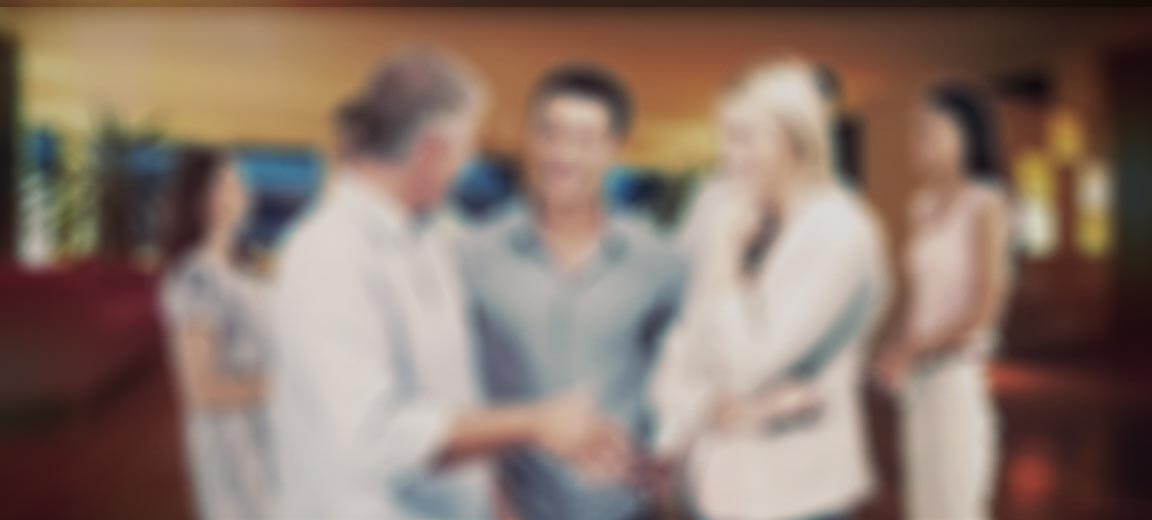
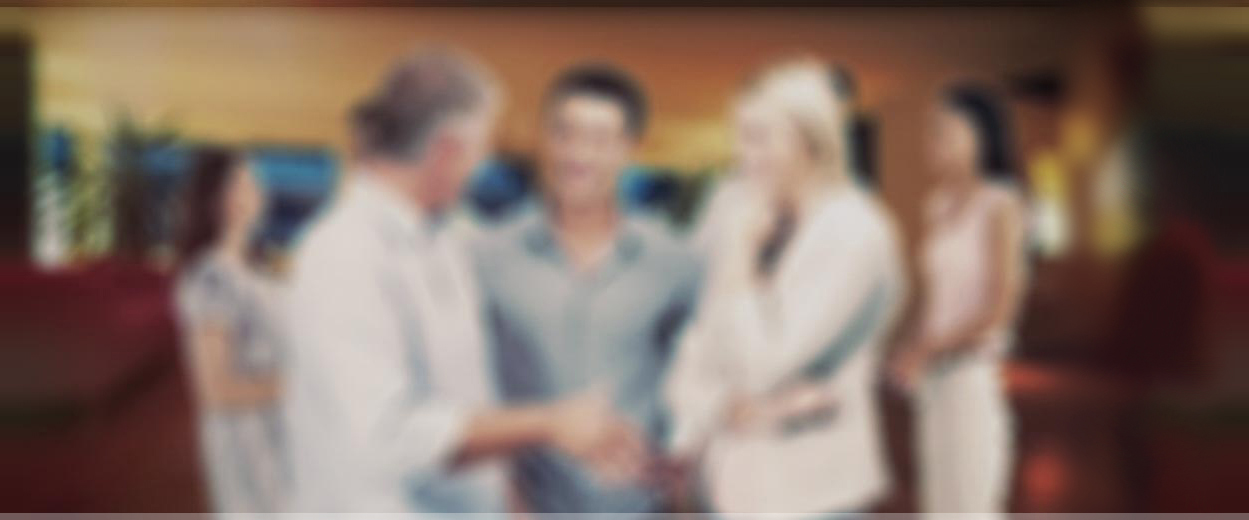
add qrcode, new css, and cleanup images

diff --git a/theme/static/css/screen.css b/theme/static/css/screen.css
@@ -2,27 +2,29 @@ body,html {
     margin: 0;
     padding: 0;
     font-family: "pf_dindisplay_proregular";
-	height: 100%;
-	color: #535353;
-	background: #f7f7f7;
+    height: 100%;
+    color: #535353;
+    background: #f7f7f7;
 }
 
 body * {
-	font-style: normal !important;
+    font-style: normal !important;
 }
 
 header {
     width: 100%;
     height: 81px;
-    background: url(../img/header-bg.png) repeat-x;
+    background: url(img/header-bg.png) repeat-x;
     font-family: "pf_dindisplay_probold";
     padding: 10px 0;
     margin: 0 0 -20px 0;
+	position: relative;
+    z-index: 2;
 }
 
 #logo {
     display: block;
-    background: url(../img/logo.png) no-repeat;
+    background: url(img/logo.png) no-repeat;
     height: 68px;
     padding: 7px 0 0 80px;
     margin: 0 0 0 25px;
@@ -47,9 +49,9 @@ header ul li {
 }
 
 header ul li a {
-	font-size: 20px;
+    font-size: 20px;
     color: rgba(255,255,255,0.15);
-	text-decoration: none;
+    text-decoration: none;
 }
 
 header ul li a:hover {
@@ -57,57 +59,76 @@ header ul li a:hover {
 }
 
 #teaser {
-    background-image: url(../img/teaser2.jpg), url(../img/teaserbg.png);
-	background-repeat: no-repeat, repeat-x;
-	background-position: top center;
+    background-image: url(img/teaser.jpg), url(img/teaserbg.png);
+    background-repeat: no-repeat, repeat-x;
+    background-position: top center;
     background-size: auto 100%;
     width: 100%;
     height: 65%;
-	max-height: 489px;
+    max-height: 489px;
     display: block;
     padding: 31px 0 0 0;
-	text-align: center;
-	margin: 0 0 40px 0;
+    text-align: center;
+    margin: 0 0 40px 0;
+}
+
+#teaser-small {
+    background-image: url(img/teaser-small.png);
+    background-repeat: no-repeat;
+    background-position: top center;
+    width: 100%;
+    height: 78px;
+    display: block;
+    padding: 1px 0 0 0;
+    margin: 0;
 }
 
 #teaser img {
     height: 100%;
     position: relative;
-	float: left;
-	margin: 0 0 0 -30px;
-	max-height: 489px;
-	max-width: 476px;
+    float: left;
+    margin: 0 0 0 -30px;
+    max-height: 489px;
+    max-width: 476px;
 }
 
 #teaser h1 {
-	font-size: 58px;
-	font-family: "pf_dindisplay_pro_mediumRg";
-	color: #fff;
-	min-width: 800px;
-	text-shadow: 0px -3px 0px rgba(128,64,42,0.8), 0px 0px 75px rgba(0,0,0,0.5);
-	margin: 60px 80px 0 0;
-	height: 15%;
+    font-size: 58px;
+    font-family: "pf_dindisplay_pro_mediumRg";
+    color: #fff;
+    min-width: 800px;
+    text-shadow: 0px -3px 0px rgba(128,64,42,0.8), 0px 0px 75px rgba(0,0,0,0.5);
+    margin: 60px 80px 0 0;
+    height: 15%;
+}
+
+#teaser-small h1 {
+    font-family: "pf_dindisplay_pro_mediumRg";
+    color: #fff;
+    font-size: 33px;
+    margin: 20px 0 0 40px;
+    text-shadow: 0px -3px 0px rgba(128,64,42,0.5), 0px 0px 75px rgba(0,0,0,0.5);
 }
 
 #teaser span {
-	font-size: 45px;
-	font-family: "pf_dindisplay_pro_mediumIt";
-	color: rgba(255,255,255, 0.75);
-	min-width: 800px;
-	text-shadow: 0px -2px 0px rgba(122,107,89,0.4), 0px 0px 75px rgba(0,0,0,0.5);
-	margin: 25px 80px 0 0;
-	margin-bottom: 60px;
-	display: block;
-	height:20%;
+    font-size: 45px;
+    font-family: "pf_dindisplay_pro_mediumIt";
+    color: rgba(255,255,255, 0.75);
+    min-width: 800px;
+    text-shadow: 0px -2px 0px rgba(122,107,89,0.4), 0px 0px 75px rgba(0,0,0,0.5);
+    margin: 25px 80px 0 0;
+    margin-bottom: 60px;
+    display: block;
+    height:20%;
 }
 
 #teaser a {
-	display: inline-block;
-	background: url(../img/button.png) no-repeat;
-	box-shadow: 0px 0px 100px #fff, 0px 0px 15px rgba(0,0,0,1);
-	margin: 0 80px 0 0;
-	width: 221px;
-	height: 75px;
+    display: inline-block;
+    background: url(img/button.png) no-repeat;
+    box-shadow: 0px 0px 100px #fff, 0px 0px 15px rgba(0,0,0,1);
+    margin: 0 80px 0 0;
+    width: 221px;
+    height: 75px;
 }
 
 #teaser a:hover {
@@ -156,7 +177,7 @@ border-right: 1px solid #d7d7d7;
 }
 
 #def:before {
-	content: url(../img/dict.png);
+	content: url(img/dict.png);
 	float: left;
 	margin: 0 30px 0 0;
 }
@@ -196,21 +217,21 @@ hr {
 }
 
 #chooser li:nth-child(1):before {
-	content: url(../img/chooser_01.png) no-repeat;
+	content: url(img/chooser_01.png) no-repeat;
 	width: 65px;
 	height: 65px;
 	margin: 7px 0 0 15px;
 	float: left;
 }
 #chooser li:nth-child(2):before {
-	content: url(../img/chooser_02.png) no-repeat;
+	content: url(img/chooser_02.png) no-repeat;
 	width: 80px;
 	height: 65px;
 	margin: 11px 0 0 0;
 	float: left;
 }
 #chooser li:nth-child(3):before {
-	content: url(../img/chooser_03.png) no-repeat;
+	content: url(img/chooser_03.png) no-repeat;
 	width: 65px;
 	height: 65px;
 	margin: 11px 0 0 15px;
@@ -218,7 +239,7 @@ hr {
 }
 
 #chooser li:hover {
-	background: url(../img/chooser.png) no-repeat;
+	background: url(img/chooser.png) no-repeat;
 }
 
 #chooser strong {
@@ -236,7 +257,7 @@ hr {
 }
 
 .full aside {
-	background: url(../img/preview.png) no-repeat;
+	background: url(img/preview.png) no-repeat;
 	width: 272px; 
 	height: 520px;
 	float: right;
@@ -294,7 +315,7 @@ footer input#email {
 footer input#submit {
 	margin: 19px 0 0 -30px;
 	padding: 0;
-	background: url(../img/submit.png);
+	background: url(img/submit.png);
 	border: 0;
 	width: 22px;
 	height: 22px;
@@ -343,7 +364,7 @@ footer aside div p {
 
 footer aside a {
 	display: inline-block;
-	background: url(../img/button2.png) no-repeat;
+	background: url(img/button2.png) no-repeat;
 	margin: 0;
 	width: 199px;
 	height: 68px;
@@ -395,47 +416,96 @@ footer span strong {
 	color: #7a7f81;
 }
 
+div.version {
+	background: #fff;
+	border-radius: 5px;
+	box-shadow: 0px 1px 3px rgba(0, 0, 0, 0.35), 0px 0px 21px rgba(0, 0, 0, 0.03);
+	width: 350px;
+	padding: 20px 25px;
+	margin: 30px;
+	float: left;
+	position: relative;
+	z-index: 2;
+}
+
+div.version ul li {
+	margin: 0 0 0 -16px;
+	font-size: 14px;
+}
+
+div.previous ul li, div.current ul li {
+	text-decoration:line-through;
+}
+
+div.version h2 {
+	margin: 0;
+	padding:0;
+	font-size: 33px;
+	font-family: "pf_dindisplay_pro_mediumRg";
+}
+
+div.current h2 {
+	color: #4c6088;
+}
+
+div h2 small {
+	font-family: "pf_dindisplay_proregular";
+	font-weight: normal;
+	color: #d9d9d9;
+}
+
+canvas {
+		position:absolute;
+		width: 100%;
+		height: 700px;
+		top: 0;
+		left: 0;
+		right: 0;
+		bottom: 0;
+		z-index: 0;
+}
+
 
 @font-face {
     font-family: 'pf_dindisplay_proregular';
-    src: url('../fonts/pfdindisplaypro-reg-webfont.eot');
-    src: url('../fonts/pfdindisplaypro-reg-webfont.eot?#iefix') format('embedded-opentype'),
-         url('../fonts/pfdindisplaypro-reg-webfont.woff') format('woff'),
-         url('../fonts/pfdindisplaypro-reg-webfont.ttf') format('truetype'),
-         url('../fonts/pfdindisplaypro-reg-webfont.svg#pf_dindisplay_proregular') format('svg');
+    src: url('fonts/pfdindisplaypro-reg-webfont.eot');
+    src: url('fonts/pfdindisplaypro-reg-webfont.eot?#iefix') format('embedded-opentype'),
+         url('fonts/pfdindisplaypro-reg-webfont.woff') format('woff'),
+         url('fonts/pfdindisplaypro-reg-webfont.ttf') format('truetype'),
+         url('fonts/pfdindisplaypro-reg-webfont.svg#pf_dindisplay_proregular') format('svg');
     font-weight: normal;
     font-style: normal;
 }
 
 @font-face {
     font-family: 'pf_dindisplay_pro_mediumRg';
-    src: url('../fonts/pfdindisplaypro-med-webfont.eot');
-    src: url('../fonts/pfdindisplaypro-med-webfont.eot?#iefix') format('embedded-opentype'),
-         url('../fonts/pfdindisplaypro-med-webfont.woff') format('woff'),
-         url('../fonts/pfdindisplaypro-med-webfont.ttf') format('truetype'),
-         url('../fonts/pfdindisplaypro-med-webfont.svg#pf_dindisplay_pro_mediumRg') format('svg');
+    src: url('fonts/pfdindisplaypro-med-webfont.eot');
+    src: url('fonts/pfdindisplaypro-med-webfont.eot?#iefix') format('embedded-opentype'),
+         url('fonts/pfdindisplaypro-med-webfont.woff') format('woff'),
+         url('fonts/pfdindisplaypro-med-webfont.ttf') format('truetype'),
+         url('fonts/pfdindisplaypro-med-webfont.svg#pf_dindisplay_pro_mediumRg') format('svg');
     font-weight: normal;
     font-style: normal;
 }
 
 @font-face {
     font-family: 'pf_dindisplay_pro_mediumIt';
-    src: url('../fonts/pfdindisplaypro-medital-webfont.eot');
-    src: url('../fonts/pfdindisplaypro-medital-webfont.eot?#iefix') format('embedded-opentype'),
-         url('../fonts/pfdindisplaypro-medital-webfont.woff') format('woff'),
-         url('../fonts/pfdindisplaypro-medital-webfont.ttf') format('truetype'),
-         url('../fonts/pfdindisplaypro-medital-webfont.svg#pf_dindisplay_pro_mediumIt') format('svg');
+    src: url('fonts/pfdindisplaypro-medital-webfont.eot');
+    src: url('fonts/pfdindisplaypro-medital-webfont.eot?#iefix') format('embedded-opentype'),
+         url('fonts/pfdindisplaypro-medital-webfont.woff') format('woff'),
+         url('fonts/pfdindisplaypro-medital-webfont.ttf') format('truetype'),
+         url('fonts/pfdindisplaypro-medital-webfont.svg#pf_dindisplay_pro_mediumIt') format('svg');
     font-weight: normal;
     font-style: normal;
 }
 
 @font-face {
     font-family: 'pf_dindisplay_probold';
-    src: url('../fonts/pfdindisplaypro-bold-webfont.eot');
-    src: url('../fonts/pfdindisplaypro-bold-webfont.eot?#iefix') format('embedded-opentype'),
-         url('../fonts/pfdindisplaypro-bold-webfont.woff') format('woff'),
-         url('../fonts/pfdindisplaypro-bold-webfont.ttf') format('truetype'),
-         url('../fonts/pfdindisplaypro-bold-webfont.svg#pf_dindisplay_probold') format('svg');
+    src: url('fonts/pfdindisplaypro-bold-webfont.eot');
+    src: url('fonts/pfdindisplaypro-bold-webfont.eot?#iefix') format('embedded-opentype'),
+         url('fonts/pfdindisplaypro-bold-webfont.woff') format('woff'),
+         url('fonts/pfdindisplaypro-bold-webfont.ttf') format('truetype'),
+         url('fonts/pfdindisplaypro-bold-webfont.svg#pf_dindisplay_probold') format('svg');
     font-weight: normal;
     font-style: normal;
 }
